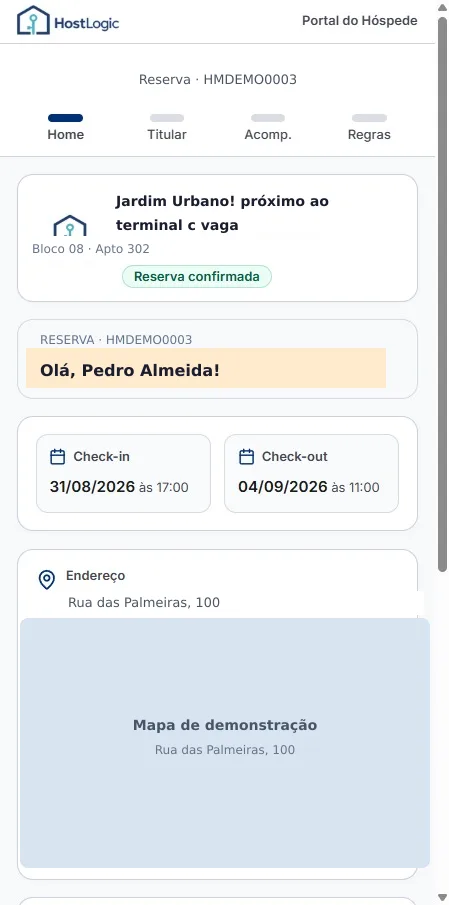
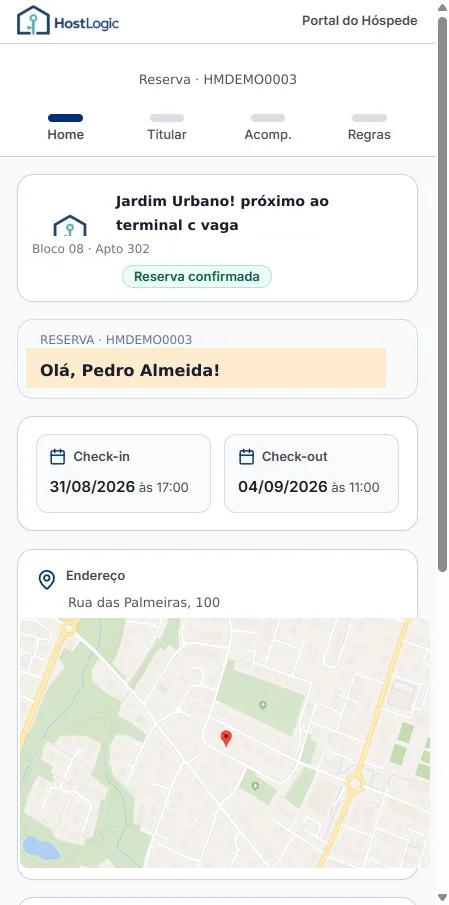
feat(site): reforçar headline, avisos e mapa no portal

Changed region(s): [[0.0312, 0.6807, 0.9666, 0.9591]]

diff --git a/src/styles/global.css b/src/styles/global.css
@@ -1316,10 +1316,11 @@ section.block p.sub {
 /* Faixa editorial de citação sobre foto de ambiente. */
 .quote-band {
   position: relative;
-  padding: clamp(4rem, 3rem + 5vw, 7rem) 0;
+  padding: clamp(4.5rem, 3.4rem + 6vw, 8rem) 0;
   background-image: url('/images/ambiente-mesa.webp');
   background-size: cover;
-  background-position: center;
+  background-position: center 28%;
+  min-height: clamp(18rem, 42vw, 28rem);
 }
 .quote-band::before {
   content: '';
